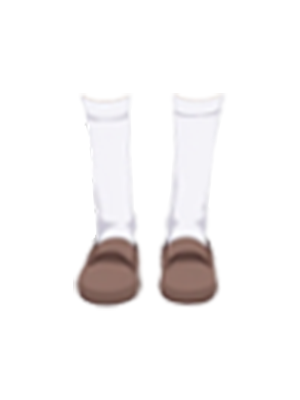
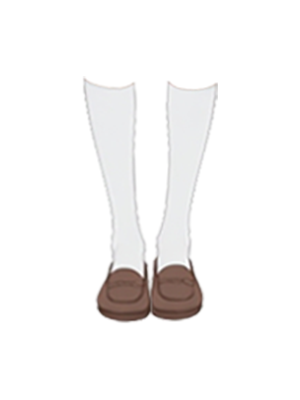
상점 아바타 이미지 배경 흰색으로 변경
shop-card-preview-wrap (눈/입/볼터치), shop-hair-preview-wrap,
shop-fashion-preview-wrap의 안쪽 박스 배경을 반투명 살색/흰색에서
불투명 #FFFFFF로 변경. 바깥 카드(검은색 반투명)는 그대로.

Changed region(s): [[0.24, 0.18, 0.75, 0.81], [0.33, 0.39, 0.36, 0.48], [0.3, 0.3, 0.33, 0.39]]

diff --git a/app/globals.css b/app/globals.css
@@ -5309,7 +5309,7 @@ select {
   display: flex;
   align-items: center;
   justify-content: center;
-  background: rgba(255, 218, 185, 0.4);
+  background: #FFFFFF;
   border-radius: 8px;
 }
 
@@ -5499,7 +5499,7 @@ select {
   display: flex;
   align-items: center;
   justify-content: center;
-  background: rgba(255, 255, 255, 0.08);
+  background: #FFFFFF;
   border-radius: 8px;
   overflow: hidden;
 }
@@ -5699,7 +5699,7 @@ select {
   display: flex;
   align-items: center;
   justify-content: center;
-  background: rgba(255, 255, 255, 0.08);
+  background: #FFFFFF;
   border-radius: 8px;
   overflow: hidden;
 }
